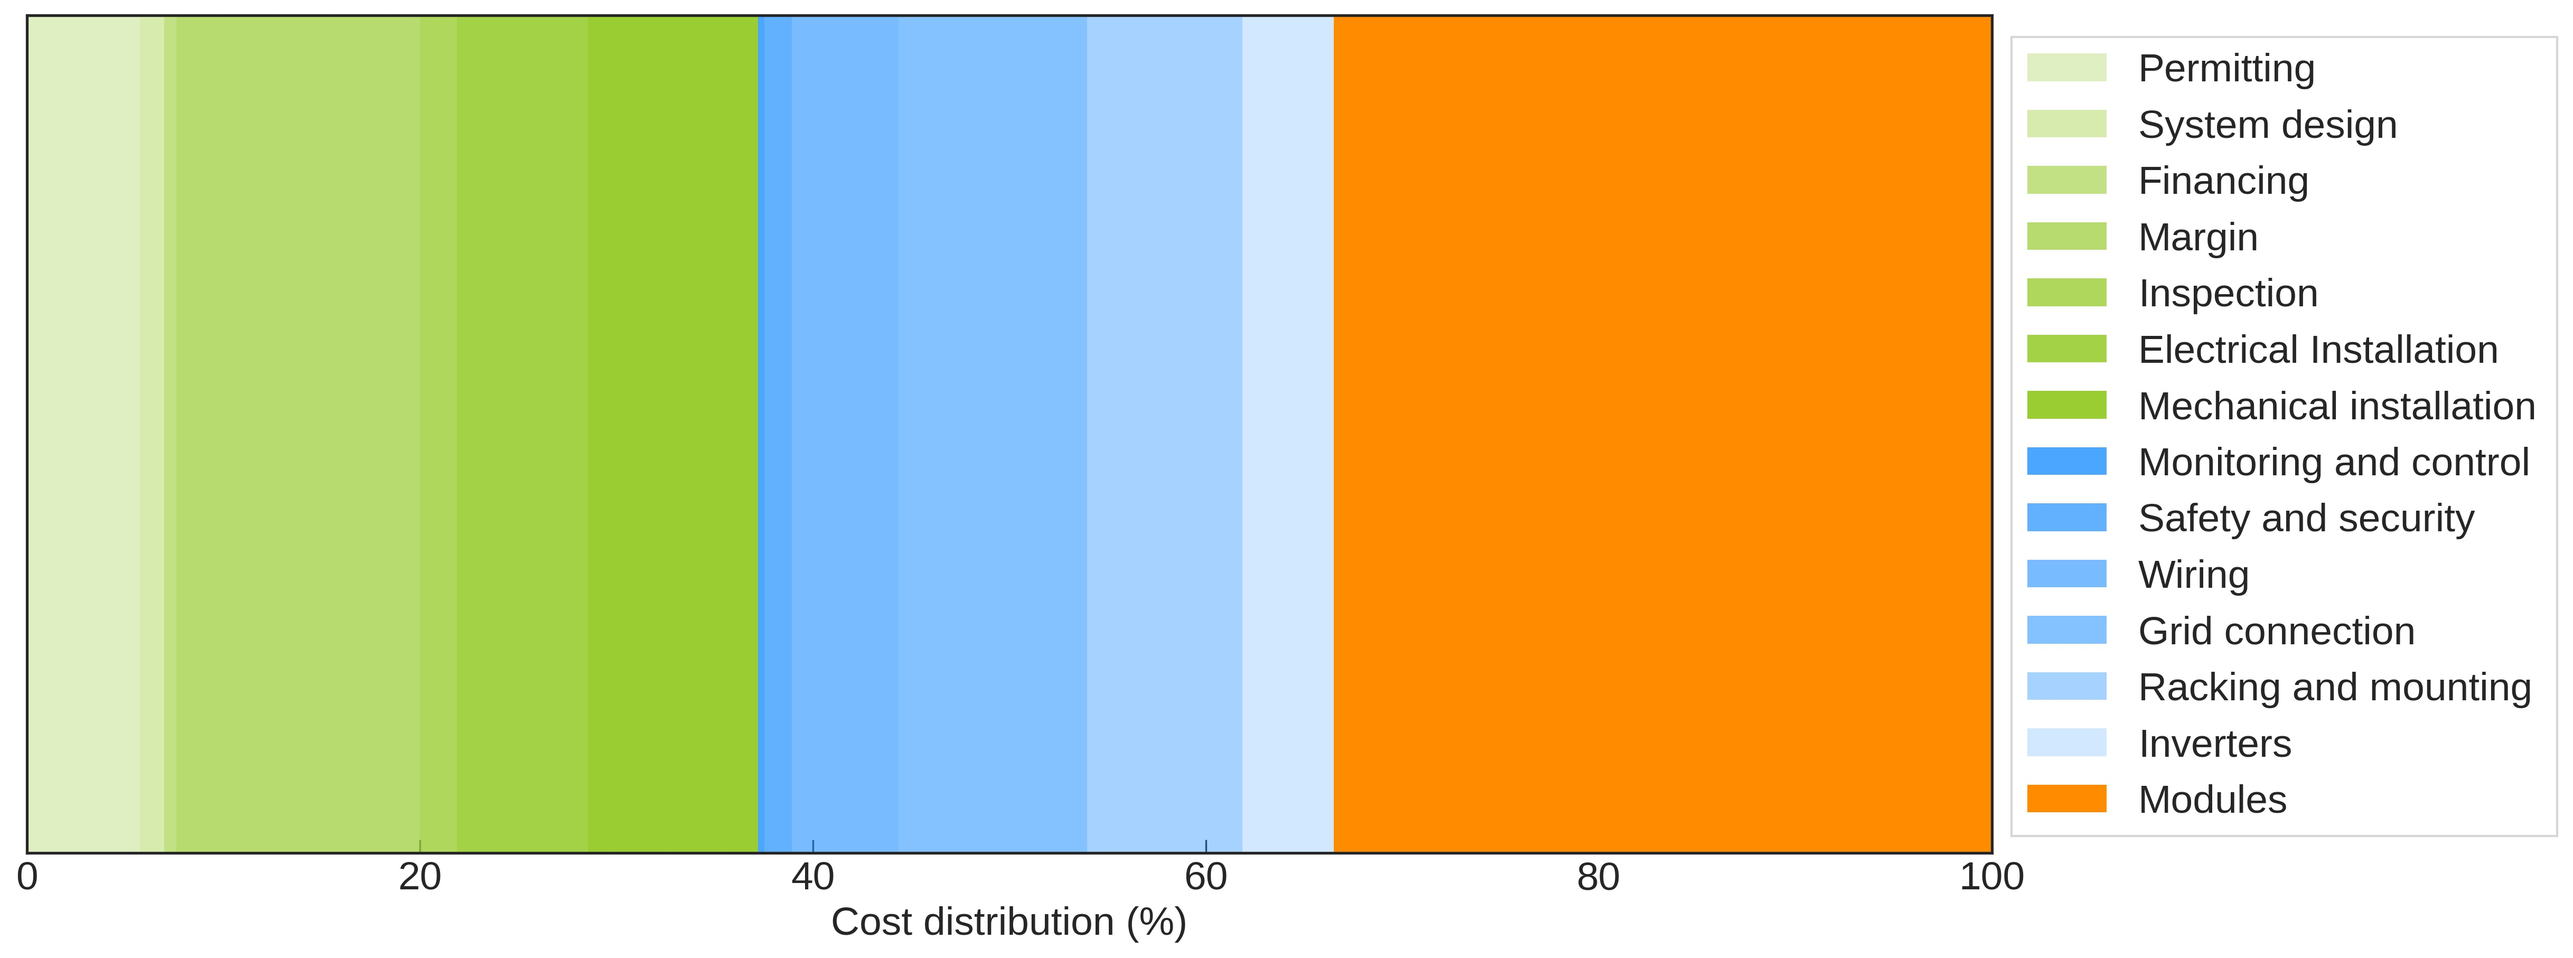
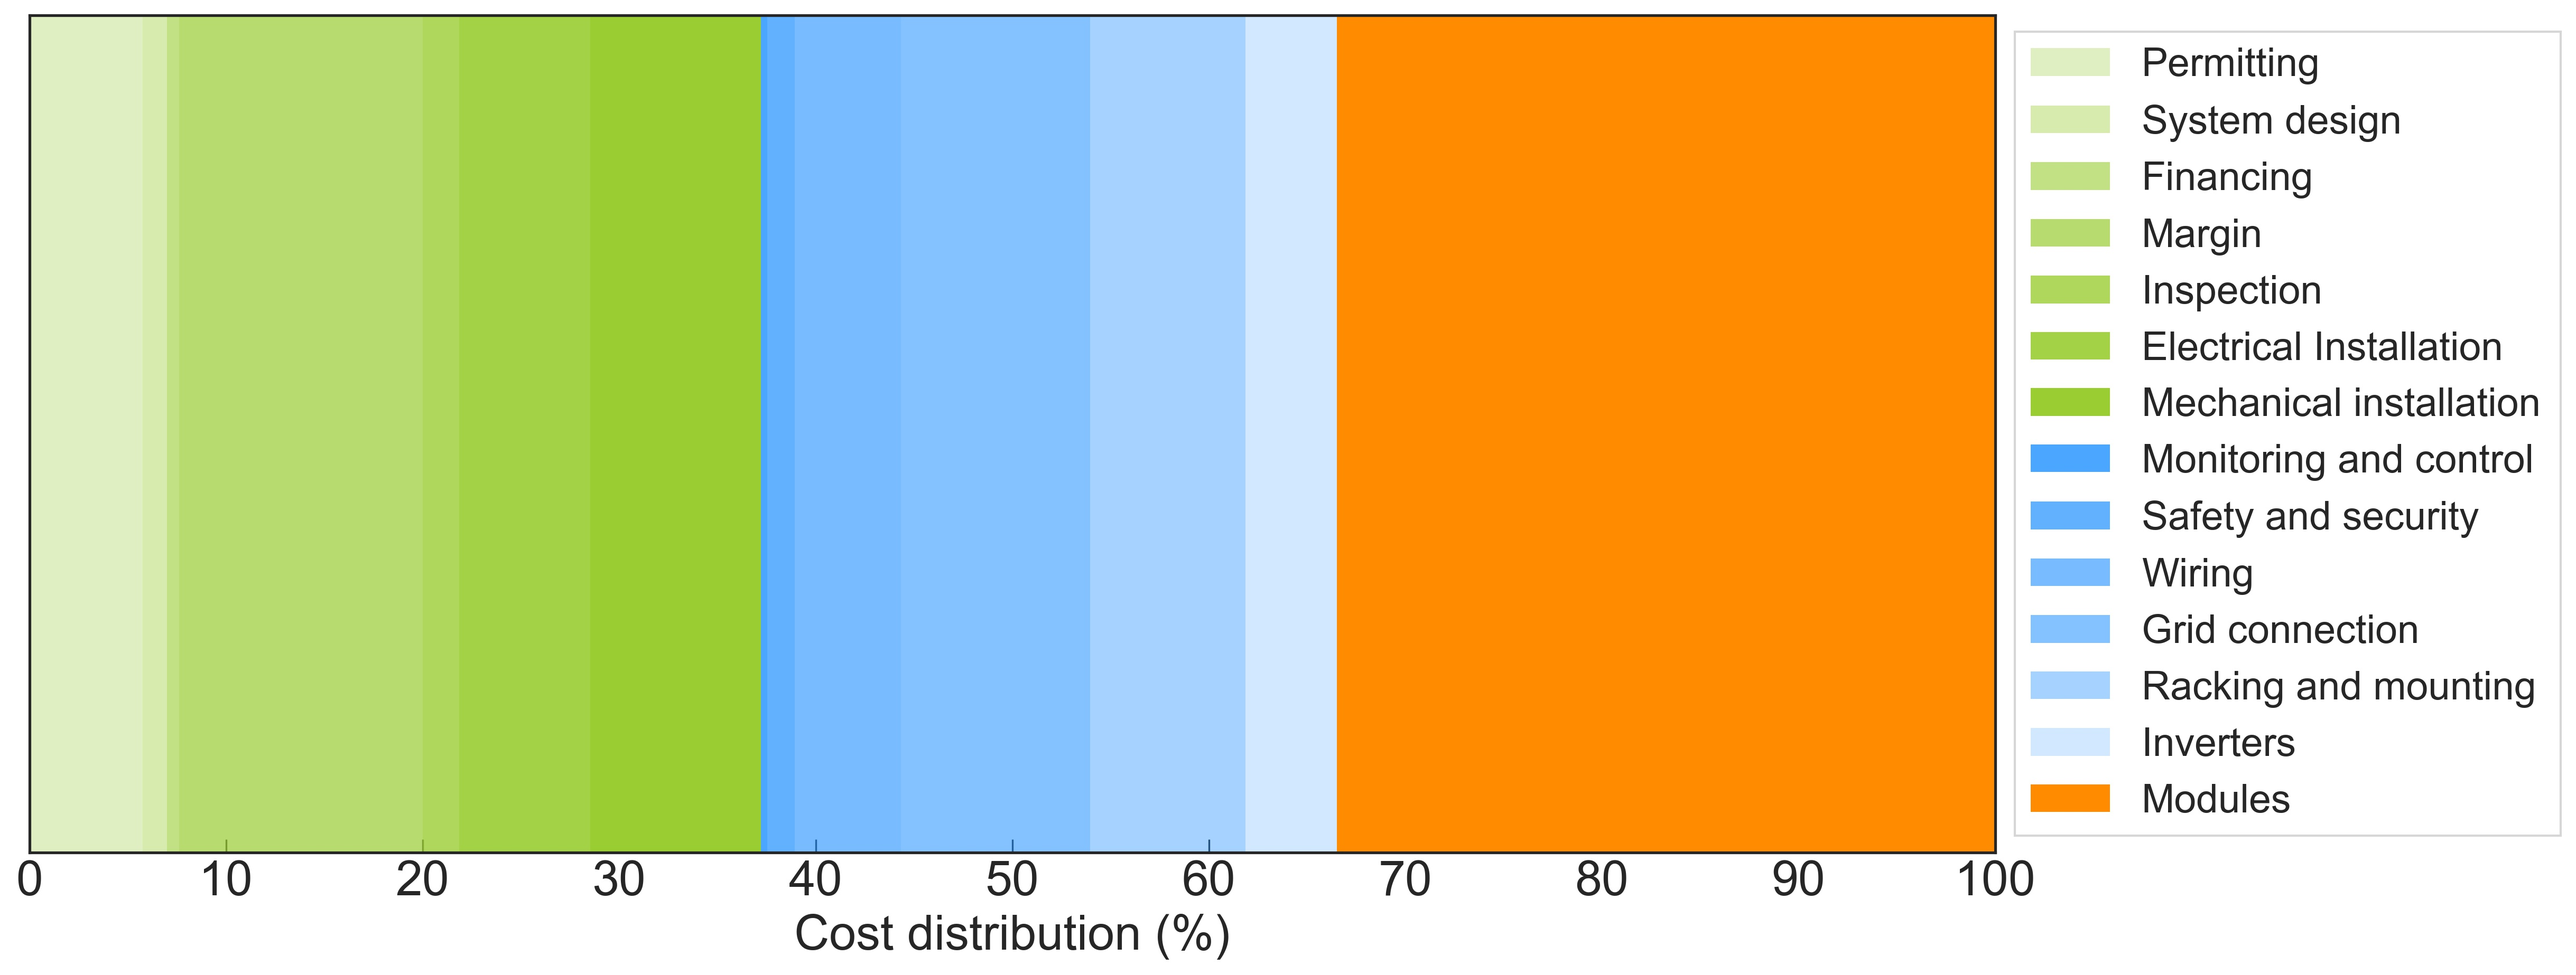
Update figure and problem 13.10

Changed region(s): [[0.0, 0.0309, 0.9986, 0.9879]]

diff --git a/Figures/Chapter_13/cost_split.py b/Figures/Chapter_13/cost_split.py
@@ -4,6 +4,7 @@
 """
 
 import pandas as pd
+import numpy as np
 import matplotlib.pyplot as plt
 import matplotlib.gridspec as gridspec
 plt.style.use(['seaborn-ticks','../pv-textbook.mplstyle'])
@@ -33,7 +34,9 @@ for i,component in enumerate(cost_split.index):
 ax1.set_yticks([])
 ax1.set_xlim([0,100])
 ax1.set_ylim([-0.4,0.4])
-ax1.set_xlabel('Cost distribution (%)')
+ax1.set_xticks(np.arange(0,110,10))
+ax1.set_xticklabels(np.arange(0,110,10), fontsize=22)
+ax1.set_xlabel('Cost distribution (%)', fontsize=22)
 #ax1.legend(fancybox=False, fontsize=18, loc=(0.1,1.05),
 #                   facecolor='white', ncol=3, frameon=True)
 ax1.legend(fancybox=False, fontsize=18, loc=(1.01,0.02), 
